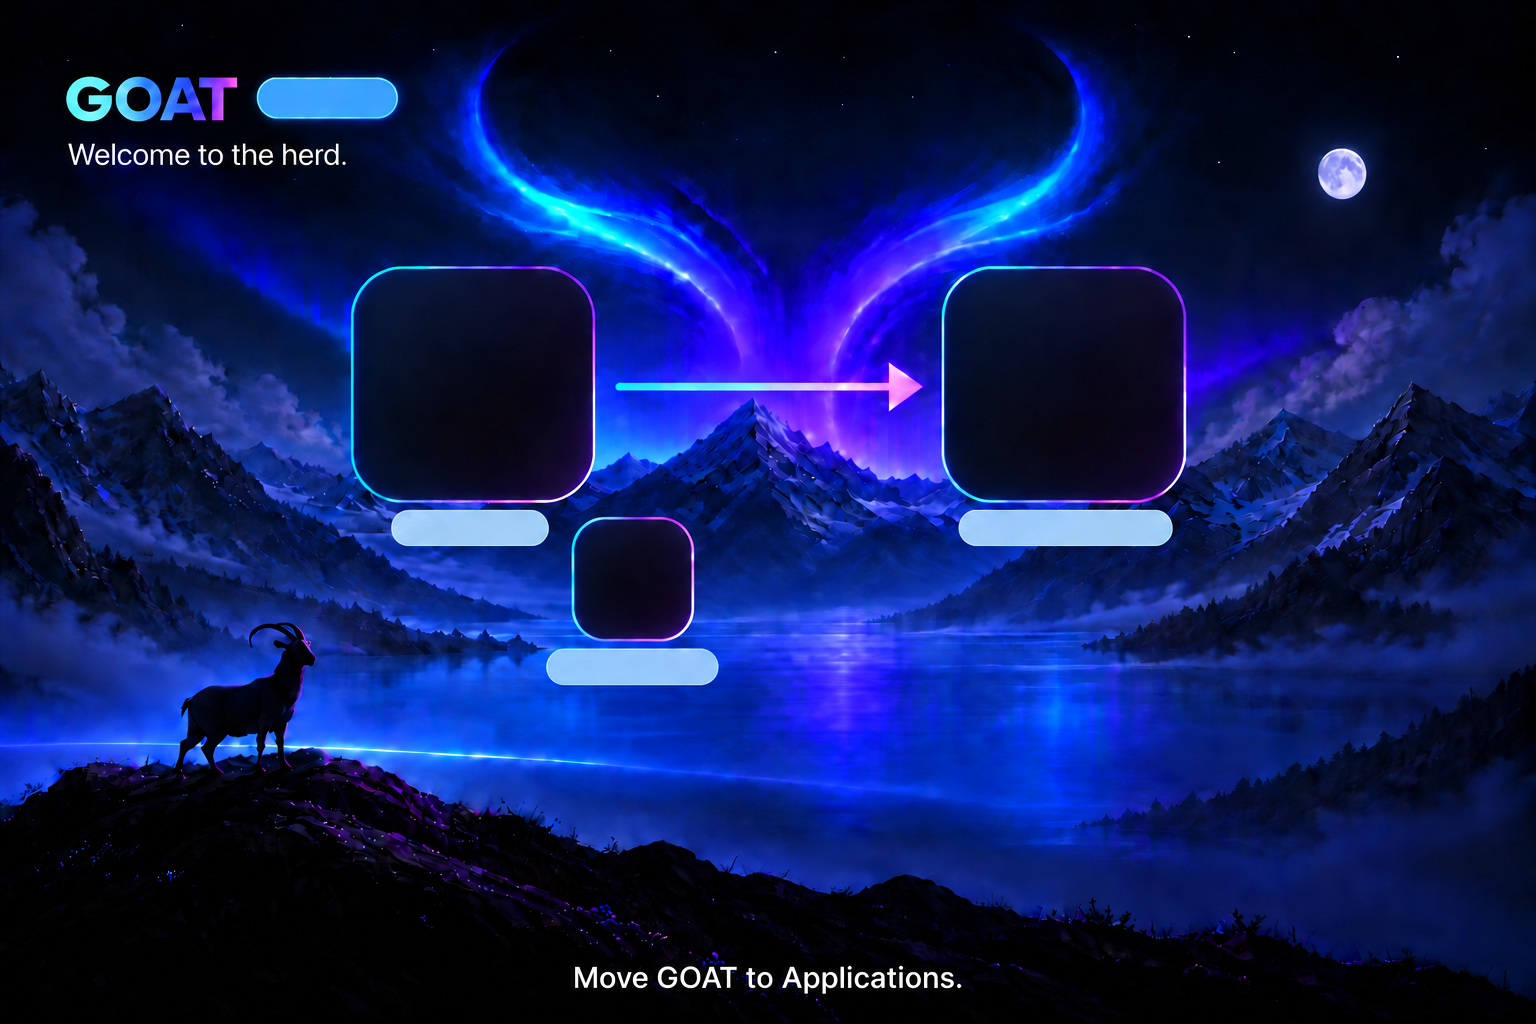
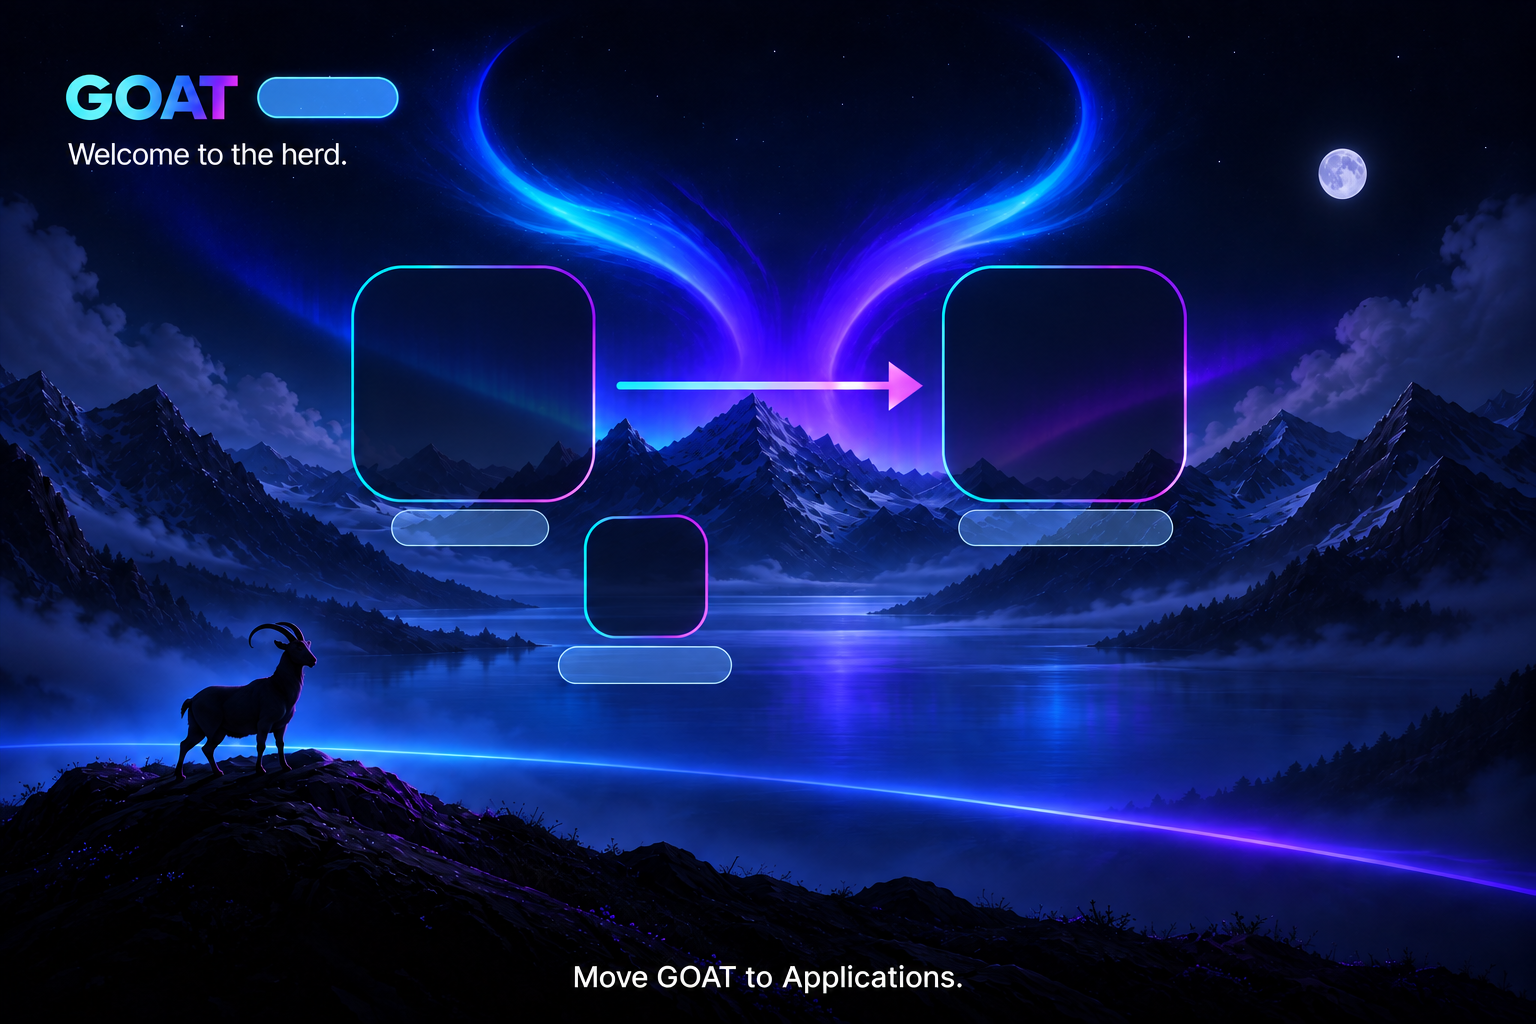
fix: restore landscape detail and transparent label pills

diff --git a/apps/goat-macos/scripts/dmg-window.py b/apps/goat-macos/scripts/dmg-window.py
@@ -78,7 +78,7 @@ def check_layout(data):
     if not options.get("backgroundImageAlias"):
         raise ValueError("missing Finder background reference")
     for name, position in {"GOAT.app": (222, 180), "Applications": (499, 180),
-                           "CLI Tools": (296, 247), "Licence": (638, 375), ".background": (532, 375)}.items():
+                           "CLI Tools": (303, 246), "Licence": (638, 375), ".background": (532, 375)}.items():
         _, blob = blob_record(data, name, b"Iloc")
         if len(blob) != 16 or struct.unpack_from(">II", blob) != position:
             actual = struct.unpack_from(">II", blob) if len(blob) >= 8 else None

diff --git a/apps/goat-macos/art/dmg/README.md b/apps/goat-macos/art/dmg/README.md
@@ -1,6 +1,6 @@
 # Finder installer theme
 
-The current background and CLI icon were created with the built-in ImageGen tool from the owner's Midnight base and GOAT icon reference. They replace the first circular-layout exports. Source masters retain the generated artwork and transparency; packaging renders the final background locally. These pictures are Brand Assets under [LICENSE-ART.md](../../../../LICENSE-ART.md). The authoring [prompts](PROMPTS.md) are retained for reference; measured export geometry governs Finder placement.
+The current background and CLI icon were created with the built-in ImageGen tool from the owner's Midnight base and GOAT icon reference. The final background was rebuilt in one ImageGen pass from the original Midnight base to avoid accumulated texture loss from successive edits. They replace the first circular-layout exports. Source masters retain the generated artwork and transparency; packaging renders the final background locally. These pictures are Brand Assets under [LICENSE-ART.md](../../../../LICENSE-ART.md). The authoring [prompts](PROMPTS.md) are retained for reference; measured export geometry governs Finder placement.
 
 - `goat-dmg-background-source.png`: 3:2 ImageGen landscape with two main squircles, a separated smaller CLI squircle, raised arrow, installation copy and an empty blue build capsule. No optional footer copy or divider.
 - `goat-cli-icon.png`: transparent terminal tile in the GOAT icon family. Applied to the CLI Tools folder only, preserving the signed executable inside it.
@@ -15,13 +15,13 @@ The current background and CLI icon were created with the built-in ImageGen tool
 | --- | --- | --- | --- |
 | GOAT.app | (222, 180) | (222, 180) | 96 |
 | Applications | (499, 180) | (499, 180) | 96 |
-| CLI Tools | (296, 247) | (296, 271) | 48 |
+| CLI Tools | (303, 246) | (303, 270) | 48 |
 | Licence | (638, 375) | (638, 399) | 48 |
 | .background | (532, 375) | (532, 399) | 48 |
 | .fseventsd, when present | (426, 375) | (426, 399) | 48 |
 
 Finder only supports one icon size per window. Smaller icons use transparent padding in the 96-point footprint, positioning the artwork 24 points below the anchor and leaving room for filenames. Other hidden support folders, when present, occupy the remaining footer slots to the left. They never cover the header, even with Show Hidden Files enabled. Packaging does not change that global preference.
 
-The CLI recess sits below and to the right of the app recess with a visible gap. Finder retains dark native filename labels over picture backgrounds. Translucent pale-blue pills back the GOAT, CLI Tools and Applications labels for contrast. The installation sentence sits at the bottom centre, below the support-folder row.
+The CLI recess sits below and to the right of the app recess with a visible gap. Finder retains dark native filename labels over picture backgrounds. Lightly tinted see-through pale-blue pills back the GOAT, CLI Tools and Applications labels for contrast. The installation sentence sits at the bottom centre, below the support-folder row.
 
 The saved window hides its toolbar, sidebar, status bar and tab bar. Finder's 32-point title bar adds to the 480-point canvas. Packaging requires Finder in a logged-in macOS session and permission for the packaging terminal to automate Finder. It refuses an invalid saved layout. Opening the volume in a fresh window uses that geometry; navigation inside an existing Finder window retains that window's chrome.

diff --git a/apps/goat-macos/art/dmg/PROMPTS.md b/apps/goat-macos/art/dmg/PROMPTS.md
@@ -1,5 +1,13 @@
 # ImageGen prompts
 
+## Final rebuild from the original detailed base
+
+Use case: compositing with strict texture preservation. Image1 is the ORIGINAL high-detail Midnight landscape and is the EDIT TARGET. Image2 is ONLY a reference for the approved installer UI overlay layout. Rebuild the final installer from Image1 in ONE PASS. Preserve Image1's fine photographic/painted textures, fine aurora filaments, smooth sky gradients, crisp mountain ridges, lake ripples, trees, moon, goat silhouette and rock details as faithfully as possible. Do not reuse Image2's degraded chunky/faceted landscape. Do not repaint the landscape into polygonal blocks, mosaic fragments or plastic-looking rocks. Add only the approved UI overlay from Image2 over the unchanged-looking Image1 landscape. Canvas exactly1536x1024. UI positions in pixels: gradient GOAT text same top-left box x64 to239 y75 to120, cyan-to-violet letter fills; light sky-blue EMPTY build capsule x257 to397 y77 to118; white 'Welcome to the herd.' below at x66 y143. Main empty dark-navy squircle recesses outer bounds x351 y267 to595 y503 and x943 y267 to1185 y503, restrained cyan-to-violet edge. Simple horizontal cyan-to-violet right-pointing arrow from615,386 to923,386. Smaller empty CLI squircle bounds573,518 to694,640, separated below-right of app. Three EMPTY see-through label pills at bounds391,510 to549,546;958,510 to1173,546;546,649 to718,685. Pills show ORIGINAL image1 mountain/lake details clearly through them, with faint light-ice-blue tint roughly20% opacity and a thin subtle edge, NOT opaque pale-blue fills. Bottom white caption exactly 'Move GOAT to Applications.' centred768,979. No actual icons or folders, no filenames in pills, no build number in capsule, no additional text or divider. Everything about the scene comes from original Image1; Image2 provides only UI layout. Prioritise preserved crisp fine original detail and exact approved overlay geometry. Do not add sharpening halos, noise or invented details.
+
+## Transparent pill correction
+
+undefined
+
 ## Label alignment refinement
 
 undefined
